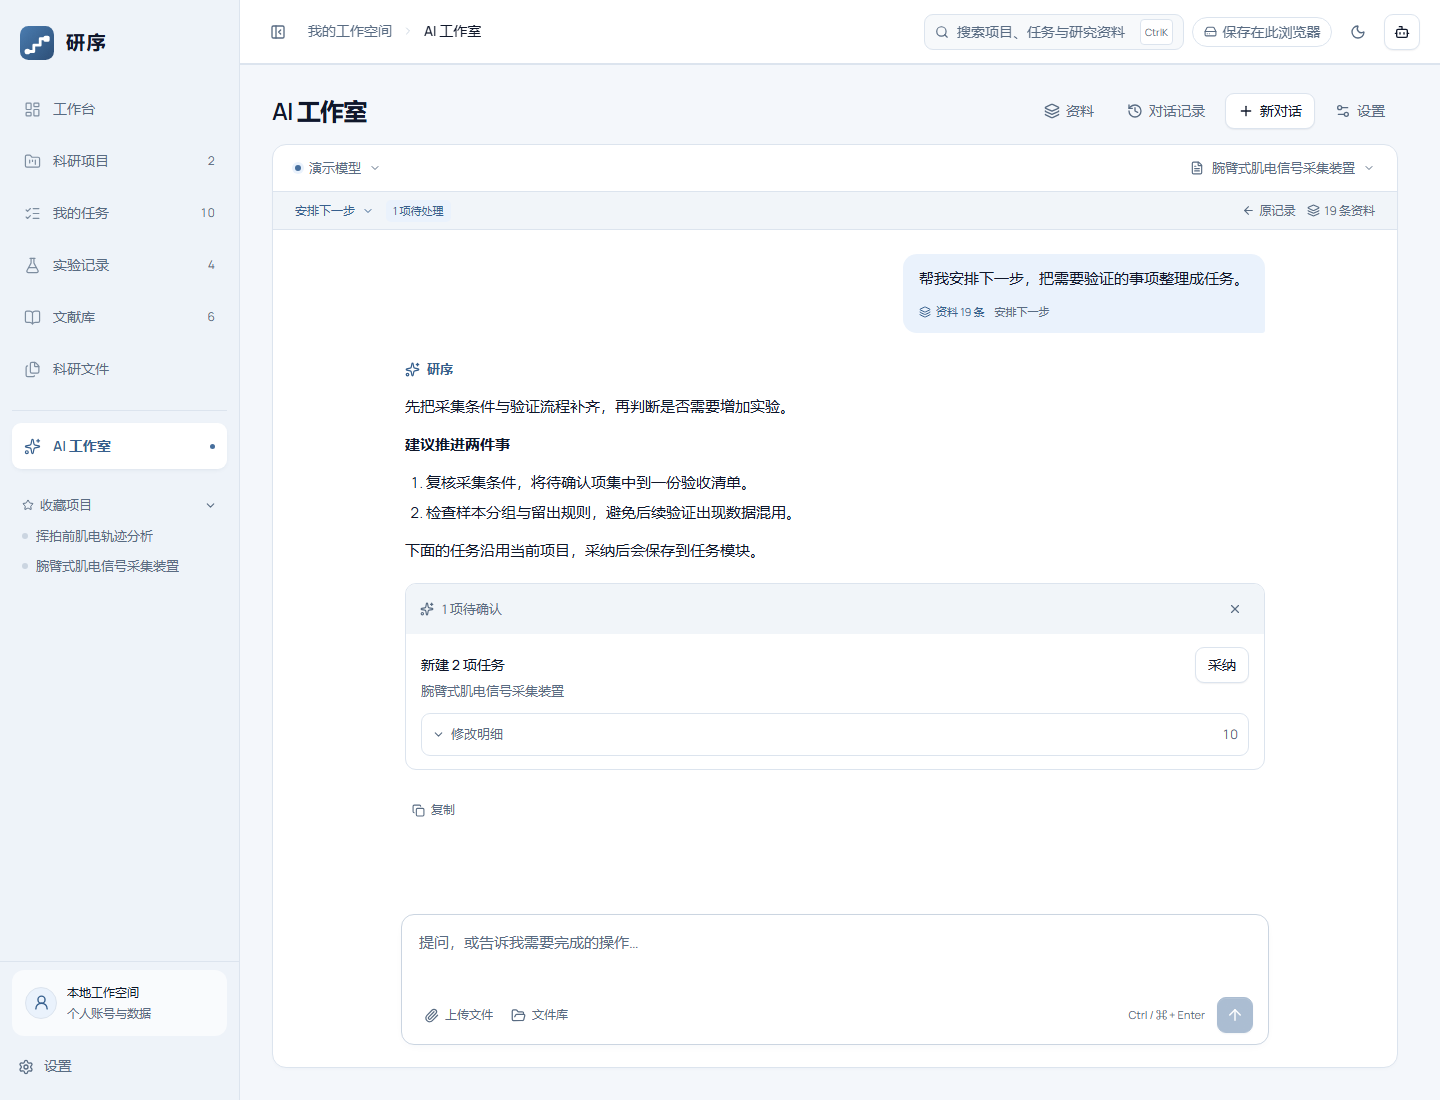
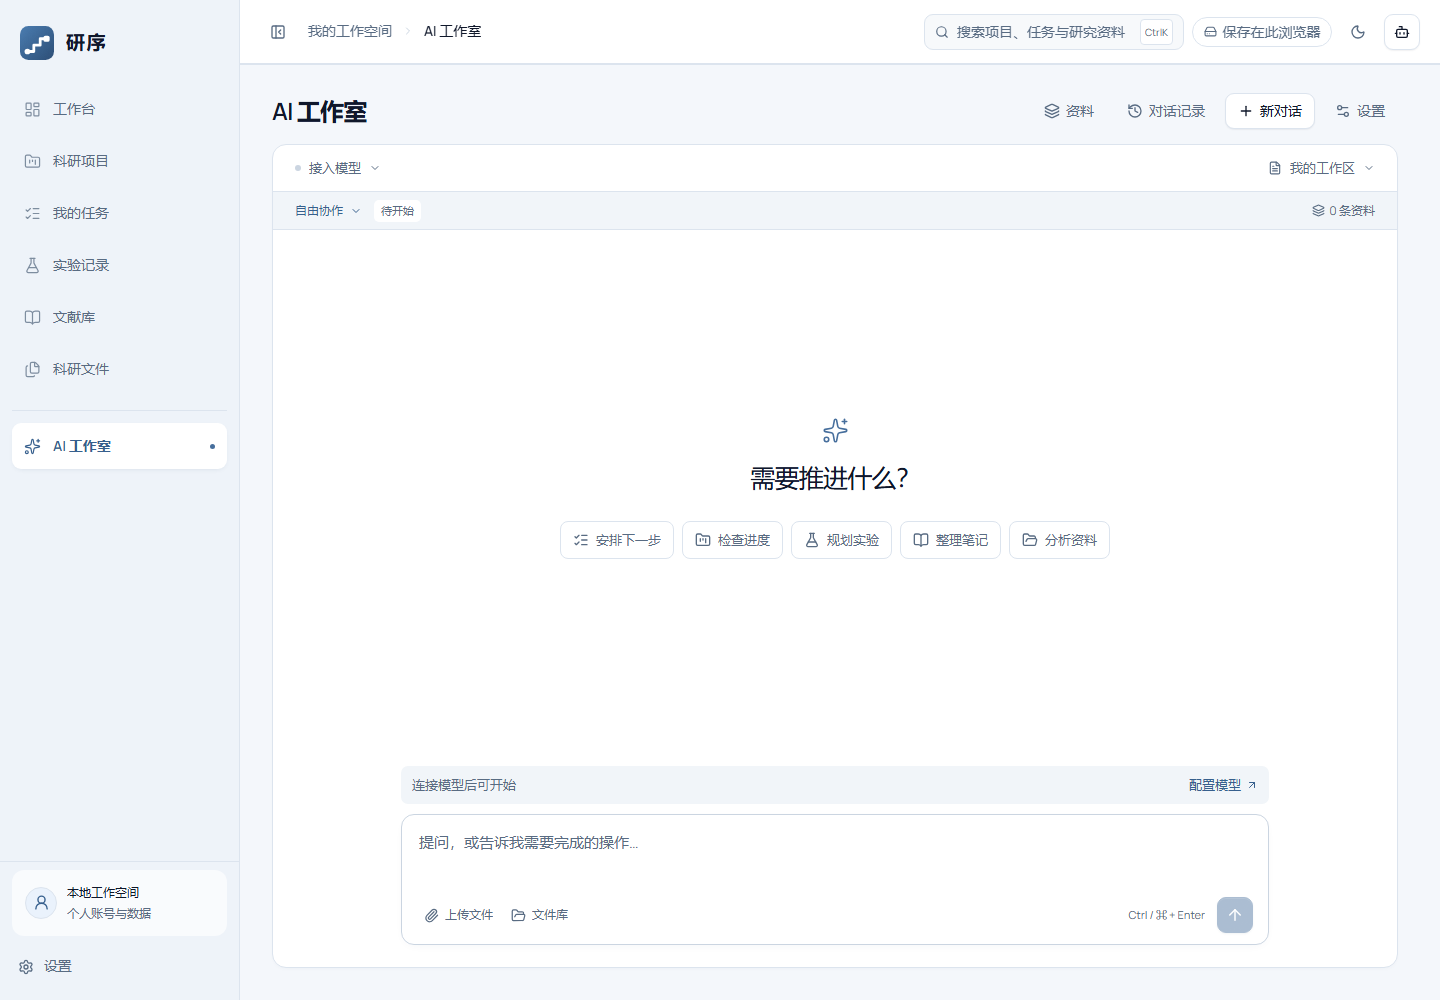
Replace public screenshots with clean initial interfaces

diff --git a/docs/README.md b/docs/README.md
@@ -11,7 +11,7 @@
 
 ## 设计与实现记录
 
-这些文档记录具体迭代的范围和本机验证，不表示后续路线图已经实现。截图与报告由脚本在 `shots/` 生成，不纳入源码；首页预览图使用合成演示数据。
+这些文档记录具体迭代的范围和本机验证，不表示后续路线图已经实现。验收截图与报告由脚本在 `shots/` 生成，不纳入源码；首页预览图展示空白工作区的初始界面，可通过 `node scripts/capture-screenshots.mjs` 重新生成。
 
 - [AI 工作台与模块联动方案](ai-research-workbench-plan.md)
 - [AI 读写融合](ai-workspace-integration-2026-10-26.md)

diff --git a/public/images/README.md b/public/images/README.md
@@ -10,4 +10,4 @@
 
 图片保留原摄影构图，登录页通过 CSS 调整饱和度及叠加遮罩以配合淡蓝色主题。
 
-项目当前只附带以上登录页照片。应用内研究内容与项目首页截图使用合成演示数据；图片素材不适用项目源码的 MIT 许可证。
+项目当前只附带以上登录页照片。项目首页截图展示空白工作区的初始界面；照片素材不适用项目源码的 MIT 许可证。
